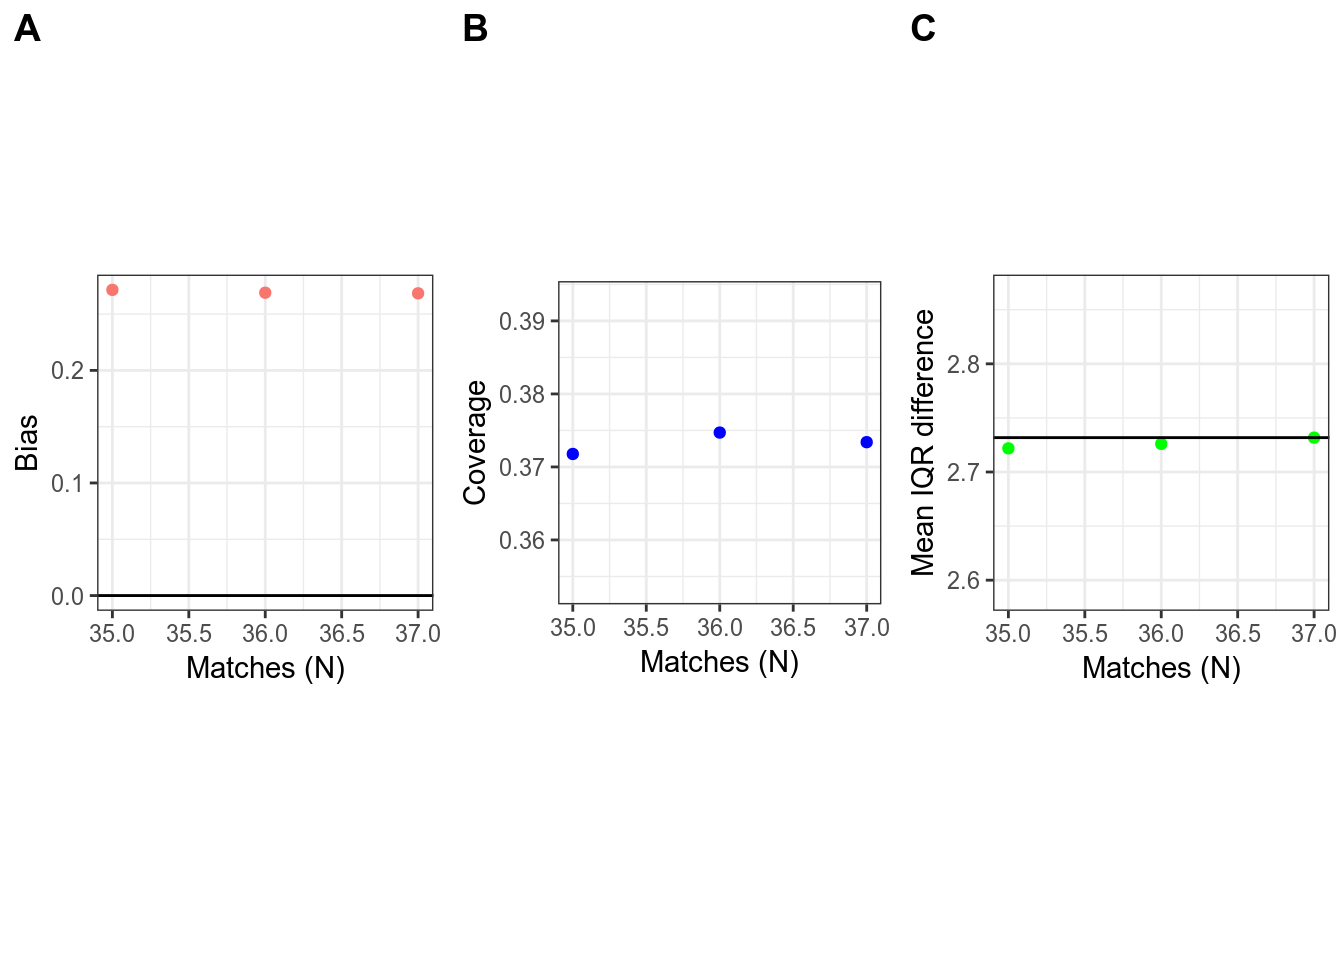
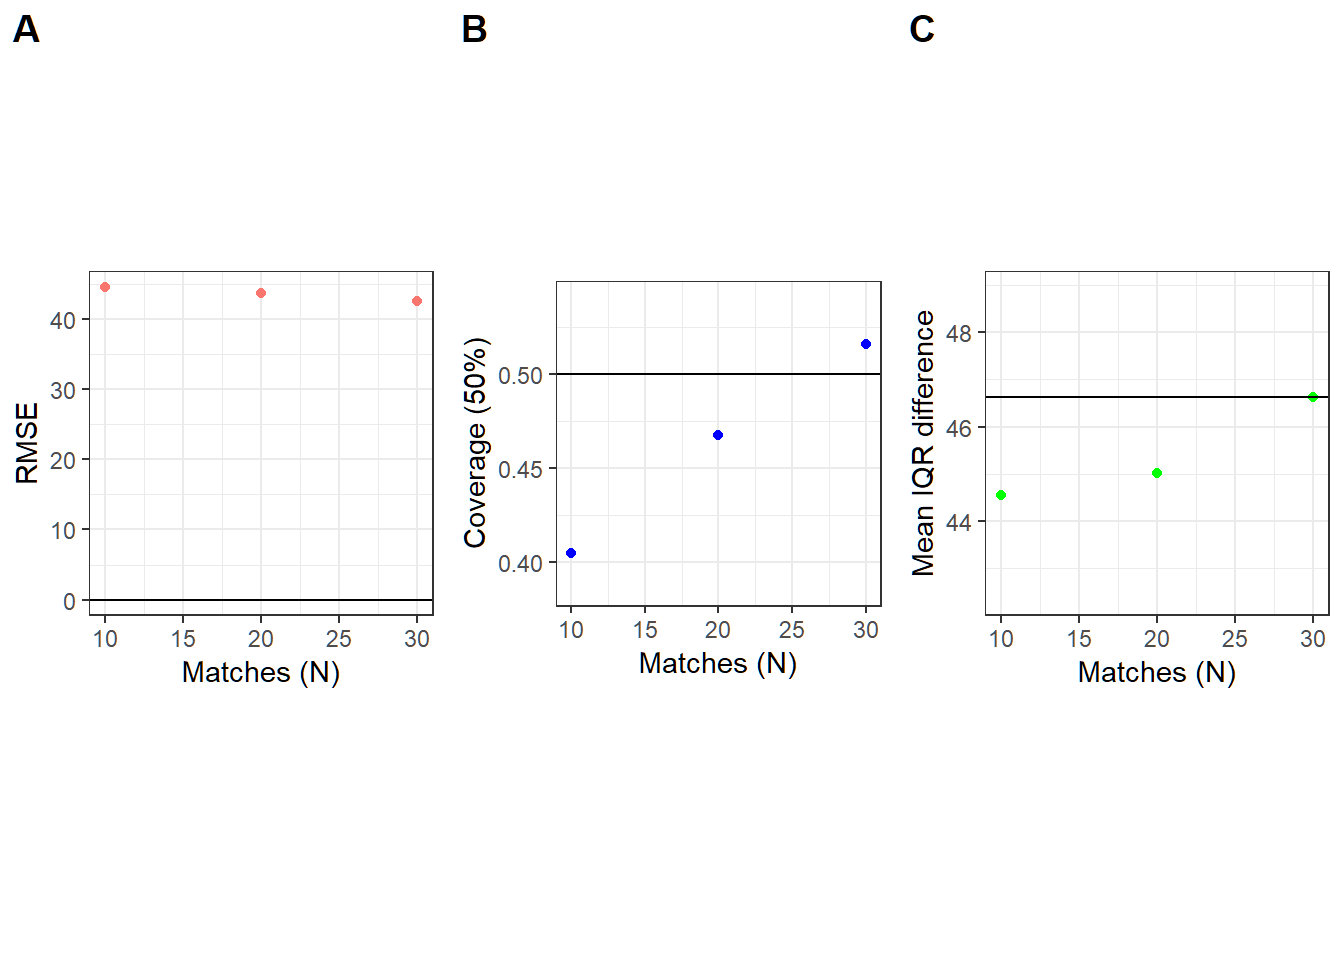
update readme file to include build status

diff --git a/readme.md b/readme.md
@@ -1,42 +1,65 @@
 
-Predictive Mean Matched Sequential K-Nearest Neighbor
-=====================================================
+<!-- badges: start -->
 
-Introduction
-------------
+[![Travis build
+status](https://app.travis-ci.com/ck2136/PMMSKNN.svg?branch=master)](https://travis-ci.com/ck2136/PMMSKNN)
+<!-- badges: end -->
 
-The purpose of the this repository is to provide a method for determining the trajectory of any longitudinal outcomes based on obtaining predictions using a extension of a nearest neighbors algorithm described by Dr. Alemi (a.k.a. [sequential k-nearest neighbor](https://www.ncbi.nlm.nih.gov/pmc/articles/PMC2911789/) (SKNN)). We extend the SKNN approach by matching similar patients using the [predictive mean matching](https://amstat.tandfonline.com/doi/abs/10.1080/07350015.1988.10509663). We illustrate the use the `PMMSKNN` pacakge below briefly using the `ChickWeight` data.
+# Predictive Mean Matched Sequential K-Nearest Neighbor
 
-Data
-----
+## Introduction
 
-The following illustration uses the `ChickWeight` data that exists within `base R`.
+The purpose of the this repository is to provide a method for
+determining the trajectory of any longitudinal outcomes based on
+obtaining predictions using a extension of a nearest neighbors algorithm
+described by Dr. Alemi (a.k.a. [sequential k-nearest
+neighbor](https://www.ncbi.nlm.nih.gov/pmc/articles/PMC2911789/)
+(SKNN)). We extend the SKNN approach by matching similar patients using
+the [predictive mean
+matching](https://amstat.tandfonline.com/doi/abs/10.1080/07350015.1988.10509663).
+We illustrate the use the `PMMSKNN` pacakge below briefly using the
+`ChickWeight` data.
 
-Algorithms Employed
--------------------
+## Data
 
-The main prediction method is using the `R` package [brokenstick](https://github.com/stefvanbuuren/brokenstick), along with [predictive mean matching](https://books.google.com/books?hl=en&lr=&id=rM8eSRUYYHYC&oi=fnd&pg=PA442&dq=%22predictive+mean+matching%22++rubin&ots=OM-74mXZoX&sig=H-tIcTl7xqIfbgumXuHBktBTfkQ#v=onepage&q=%22predictive%20mean%20matching%22%20%20rubin&f=false) and [gamlss](https://www.gamlss.com/). Currently the code is under development to work within the [caret](https://github.com/topepo/caret) and [mlr](https://github.com/mlr-org/mlr) packages.
+The following illustration uses the `ChickWeight` data that exists
+within `base R`.
 
-Installation/Compilation Tip
-----------------------------
+## Algorithms Employed
+
+The main prediction method is using the `R` package
+[brokenstick](https://github.com/stefvanbuuren/brokenstick), along with
+[predictive mean
+matching](https://books.google.com/books?hl=en&lr=&id=rM8eSRUYYHYC&oi=fnd&pg=PA442&dq=%22predictive+mean+matching%22++rubin&ots=OM-74mXZoX&sig=H-tIcTl7xqIfbgumXuHBktBTfkQ#v=onepage&q=%22predictive%20mean%20matching%22%20%20rubin&f=false)
+and [gamlss](https://www.gamlss.com/). Currently the code is under
+development to work within the [caret](https://github.com/topepo/caret)
+and [mlr](https://github.com/mlr-org/mlr) packages.
+
+## Installation/Compilation Tip
 
 -   Download the github folder through
 
-        devtools::install_github('ck2136/PMMSKNN')
+<!-- -->
+
+    devtools::install_github('ck2136/PMMSKNN')
 
 -   If not available then `git clone` then `R CMD Install`
 
-        git clone https://github.com/ck2136/PMMSKNN.git
-        R CMD Install PMMSKNN
+<!-- -->
 
--   There will be dependencies that should be resolved if installation isn't done through the standard R method (in R):
+    git clone https://github.com/ck2136/PMMSKNN.git
+    R CMD Install PMMSKNN
 
-        devtools::install_github("stefvanbuuren/brokenstick")
-        devtools::install_deps('.')
-        devtools::install_local('.')
+-   There will be dependencies that should be resolved if installation
+    isn’t done through the standard R method (in R):
 
-Example workflow
-----------------
+<!-- -->
+
+    devtools::install_github("stefvanbuuren/brokenstick")
+    devtools::install_deps('.')
+    devtools::install_local('.')
+
+## Example workflow
 
 ### Load Libraries and the `ChickWeight` data
 
@@ -50,35 +73,44 @@ data("ChickWeight") ## example tug data
 
 ``` r
 # load only the TUG dataset
-full  <- ChickWeight %>%
-  rename(
-    patient_id = 3,
-    time = 2
-  )
+full  <- ChickWeight 
 
 # Train and Test split for all weight outcome: create 
 set.seed(1234)
-full <- PMMSKNN:::baselinemk(full, "patient_id", "time")
+full <- PMMSKNN:::baselinemk(full, "Chick", "Time")
 
 # Select 10 first patients as the test case
 full %<>%
   mutate(
-    patient_id = as.numeric(as.character(patient_id)),
-    train_test = ifelse(patient_id %in% c(1,2,20, 30, 40), 2, 1),
-    Diet = as.numeric(as.character(Diet))
+    # Need to convert the Chick (id column) into character
+    Chick = as.numeric(as.character(Chick)),
+    # Convert diet into numeric
+    Diet = as.numeric(as.character(Diet)),
+    # Select training and testing observations
+    train_test = ifelse(Chick %in% c(1,2,10,13,14,18,20,22,25,28,30,33,37,39,40,43,47), 2, 1)
   ) %>% 
-  # Need to have distinct patient id's for the full data
-  distinct(patient_id, time, .keep_all=TRUE)
+  # Need to have distinct id's for the full data
+  distinct(Chick, Time, .keep_all=TRUE) 
   
 # Check the structure of the dataset
 full %>% str
-## 'data.frame':    578 obs. of  6 variables:
+## Classes 'nfnGroupedData', 'nfGroupedData', 'groupedData' and 'data.frame':   578 obs. of  6 variables:
 ##  $ weight    : num  42 51 59 64 76 93 106 125 149 171 ...
-##  $ time      : num  0 2 4 6 8 10 12 14 16 18 ...
-##  $ patient_id: num  1 1 1 1 1 1 1 1 1 1 ...
+##  $ Time      : num  0 2 4 6 8 10 12 14 16 18 ...
+##  $ Chick     : num  1 1 1 1 1 1 1 1 1 1 ...
 ##  $ Diet      : num  1 1 1 1 1 1 1 1 1 1 ...
 ##  $ baseline  : num  1 0 0 0 0 0 0 0 0 0 ...
 ##  $ train_test: num  2 2 2 2 2 2 2 2 2 2 ...
+##  - attr(*, "formula")=Class 'formula'  language weight ~ Time | Chick
+##   .. ..- attr(*, ".Environment")=<environment: R_EmptyEnv> 
+##  - attr(*, "outer")=Class 'formula'  language ~Diet
+##   .. ..- attr(*, ".Environment")=<environment: R_EmptyEnv> 
+##  - attr(*, "labels")=List of 2
+##   ..$ x: chr "Time"
+##   ..$ y: chr "Body weight"
+##  - attr(*, "units")=List of 2
+##   ..$ x: chr "(days)"
+##   ..$ y: chr "(gm)"
 ```
 
 ### preproc() creates matched test/train based on Predictive Mean Matching (PMM)
@@ -92,29 +124,33 @@ test_proc <- preproc(
                 knots_exp = c(0, 4, 8, 16), # Specify broken stick knots
                 out_time = 16,            # specify which timepoint to use 
                 outcome = "weight",          # specify outcome variable name
-                time_var = "time",        # specify time variable name
-                pat_id = "patient_id",    # specify patient id variable name
+                time_var = "Time",        # specify time variable name
+                id = "Chick",    # specify id variable name
+                baseline_var = "baseline", # specify baseline variable
                 varlist = c("Diet") # specify list of covariates for pmm
                 #filter_exp = "Time > 2"   # Filter observations that will be included
 )
-## time is not an integer! converting to integer! May need to check if this makes sense!
-## Warning in checkConv(attr(opt, "derivs"), opt$par, ctrl =
-## control$checkConv, : unable to evaluate scaled gradient
-## Warning in checkConv(attr(opt, "derivs"), opt$par, ctrl =
-## control$checkConv, : Model failed to converge: degenerate Hessian with 2
-## negative eigenvalues
+## Time is not an integer! converting to integer! May need to check if this makes sense!
+## boundary (singular) fit: see ?isSingular
 test_proc %>% str(max.level=1)
-## List of 6
-##  $ train_post:'data.frame':  473 obs. of  6 variables:
-##  $ train_o   :'data.frame':  45 obs. of  8 variables:
-##  $ reg_df    :'data.frame':  45 obs. of  6 variables:
+## List of 8
+##  $ train_post:'data.frame':  351 obs. of  6 variables:
+##  $ train_o   :'data.frame':  33 obs. of  8 variables:
+##  $ reg_df    :'data.frame':  33 obs. of  6 variables:
 ##  $ reg_obj   :List of 12
 ##   ..- attr(*, "class")= chr "lm"
-##  $ test_post :'data.frame':  55 obs. of  6 variables:
-##  $ test_o    :'data.frame':  5 obs. of  8 variables:
+##  $ test_post :'data.frame':  177 obs. of  6 variables:
+##  $ test_o    :'data.frame':  17 obs. of  8 variables:
+##  $ bs_obj    :List of 12
+##   ..- attr(*, "class")= chr "brokenstick"
+##  $ varname   : chr [1:5] "weight" "Time" "Chick" "baseline" ...
 ```
 
--   Depending on the `knots_exp` specified and the `out_time` time chosen, there will likely be warnings about parameter estimation within the `brokenstick()` algorithm. Here is where the researcher needs to consider the appropriate values for the variable in terms of clinical relevance and the data at hand.
+-   Depending on the `knots_exp` specified and the `out_time` time
+    chosen, there will likely be warnings about parameter estimation
+    within the `brokenstick()` algorithm. Here is where the researcher
+    needs to consider the appropriate values for the variable in terms
+    of clinical relevance and the data at hand.
 
 ### LOOCV: `loocv_function()` calculates performance measure
 
@@ -122,15 +158,9 @@ test_proc %>% str(max.level=1)
 res <- loocv_function(
   
   # specify number or vector of numbers from {1,...,total number of patients in training data} 
-  nearest_n = c(35:37),
-  # enter training and testing post operative and fitted y90 dataset
-  train_post = test_proc$train_post,
-  ord_data = test_proc$train_o,
-  test_post = test_proc$test_post,
-  test_o = test_proc$test_o,
-  # Specify outcome variable and time variable name
-  outcome = "weight",
-  time_elapsed = "time",
+  nearest_n = c(10,20,30),
+  # Specify the preprocessed object that contains the training and testing datasets
+  preproc=test_proc,
 
   # Specify number of cores for parallel processing
   parallel=3,
@@ -153,8 +183,21 @@ res <- loocv_function(
 ### Plots: `plot_cal()` returns a plot of the performance measures from the LOOCV
 
 ``` r
-plot_cal(plotobj = res, test_proc = test_proc, 
-         obs_dist = "median")
+plot_cal(plotobj = res, 
+         test_proc = test_proc, 
+         obs_dist = "median",
+         outcome = "weight",
+         filt=FALSE,
+         pred_sum="mean",
+         #plot_by=seq(10,150,5),
+         loocv=TRUE,
+         filter_exp = NULL,
+         plot_cal_zscore=FALSE,
+         wtotplot=FALSE,
+         plotvals=FALSE,
+         iqrfull=NULL,
+         bs=FALSE
+         )
 ```
 
 <img src="README_figs/README-plotloocv-1.png" width="672" />
@@ -163,9 +206,11 @@ plot_cal(plotobj = res, test_proc = test_proc,
 
 ``` r
 plot_cal(plotobj = res, 
-         test_proc = test_proc,
+         test_proc = test_proc, 
+         obs_dist = "median",
          outcome = "weight",
-         obs_dist = "median", loocv = FALSE)  
+         loocv=FALSE
+         )
 ## [1] "creating training calibration plot"
 ## [1] "creating testing calibration plot"
 ## [1] "creating temp and test matching data"
@@ -176,15 +221,10 @@ plot_cal(plotobj = res,
 
 <img src="README_figs/README-plotcal-1.png" width="672" />
 
-``` r
-      ## Note: specify loocv = FALSE 
-```
-
-Authors
--------
+## Authors
 
 -   [Chong Hoon Kim](mailto:chong.kim@ucdenver.edu)
--   [Dr. Kathryn Colborn](mailto:KATHRYN.COLBORN@UCDENVER.EDU)
--   [Dr. Timothy Loar](mailto:TIMOTHY.LOAR@UCDENVER.EDU)
--   [Dr. Andrew Kittelson](mailto:andrew.kittelson@ucdenver.edu)
--   [Dr. Stef van Buuren](mailto:S.vanBuuren@uu.nl)
+-   [Dr. Kathryn Colborn](mailto:KATHRYN.COLBORN@UCDENVER.EDU)
+-   [Dr. Timothy Loar](mailto:TIMOTHY.LOAR@UCDENVER.EDU)
+-   [Dr. Andrew Kittelson](mailto:andrew.kittelson@ucdenver.edu)
+-   [Dr. Stef van Buuren](mailto:S.vanBuuren@uu.nl)
